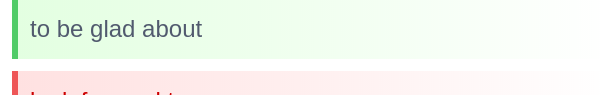
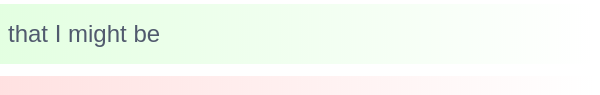
SQL babyyyyyyyyyyyyyyyyyyyy
stupid ass dictionaries

diff --git a/main.py b/main.py
@@ -2,41 +2,101 @@ from googletrans import Translator
 import pytesseract
 import pyautogui
 import time
+import clipboard
 
+from flask import Flask
+from flask_sqlalchemy import SQLAlchemy
+import sqlalchemy
+from sqlalchemy import Column, Integer, String, ForeignKey
+from sqlalchemy.ext.declarative import declarative_base
+from sqlalchemy.orm import sessionmaker
 #pytesseract.pytesseract.tesseract_cmd = r'C:\Program Files\Tesseract-OCR\tesseract.exe'
 translator = Translator()
 newtext = ''
 oldtext = ''
 checktext = ''
-dictionary = {}
+
+app = Flask(__name__)
+app.config['SECRET_KEY'] = 'zbnjlbrkns'
+app.config['SQLALCHEMY_DATABASE_URI'] = 'sqlite:///db.sqlite3'
+app.config['SQLALCHEMY_TRACK_MODIFICATIONS'] = False
+db = SQLAlchemy(app)
+engine = sqlalchemy.create_engine('sqlite:///db.sqlite3',connect_args={'check_same_thread': False})
+session = sessionmaker(bind=engine)()
+base = declarative_base()
+
+class Words(db.Model):
+    id = id = db.Column(db.Integer, primary_key=True)
+    german = db.Column(db.String(999), unique=True, nullable=False)
+    english = db.Column(db.String(999), nullable=False)
+
 check = False
-time.sleep(4)
-while True:
-    time.sleep(1.5)
-    image = pyautogui.screenshot(region=(12, 398, 1382, 140))#region=(748,752, 1800, 200)
-    image.save("epic.png")
-    oldtext= newtext
-    newtext = pytesseract.image_to_string(image)
-    if newtext[:11:] == 'Your answer':
-        if check == True:
+verticalline = False
+
+if __name__ == '__main__':
+    time.sleep(4)
+    while True:
+        time.sleep(1.5)
+        image = pyautogui.screenshot(region=(12, 398, 1382, 140))#region=(748,752, 1800, 200)
+        image.save("epic.png")
+        oldtext= newtext
+        newtext = pytesseract.image_to_string(image)
+        if newtext.find('Your answer') != -1:
+            # if check == True:
+            #     try:
+            #         remove = Words.query.filter_by(german=checktext).first()
+            #         db.session.delete(remove)
+            #         db.session.commit
+            #         check = False
+            #     except:
+            #         check = False
+
+            #image = pyautogui.screenshot(region=(477, 354, 600, 95))#region=(1024,696, 928, 75)
+            #image.save("epic1.png")
+            pyautogui.click(button='left', clicks=3, interval=0.25, x=477, y=369)
+            pyautogui.hotkey('ctrl', 'c')
+            answer = clipboard.paste()
+            if verticalline:
+                while verticalline:
+                    if answer.find(' | ') != -1:
+                        position = answer.find(' | ')
+                        answer = answer[:position:]
+                    else:
+                        break
+            else:
+                answer.replace('|', 'I')
+
+            find = Words.query.filter_by(german = oldtext).first()
+            if find is None:
+                answer = Words(german = oldtext, english = answer)
+                db.session.add(answer)
+            else:
+                find.english = answer
+            db.session.commit()
+        else:
             try:
-                dictionary.pop(checktext)
-                check == False
+                translated = Words.query.filter_by(german = newtext).first().english
+                # check = True
+                # checktext = newtext
             except:
-                pass
-        image = pyautogui.screenshot(region=(455, 359, 600, 95))#region=(1024,696, 928, 75)
-        image.save("epic1.png")
-        answer = pytesseract.image_to_string(image)
-        dictionary[oldtext] = answer
-    else:
-        try:
-            translated = dictionary[newtext]
-            check = True
-            checktext = newtext
-        except:
-            translated = str(translator.translate(newtext).text)
-        if translated == '':
-            translated = 'a'
-        pyautogui.hotkey('ctrl', 'a')
-        pyautogui.typewrite(translated)
-    pyautogui.press('enter')
+                pos = newtext.find('(')
+                translatext = newtext
+                if pos != -1:
+                    translatext = newtext[:pos:]
+                while verticalline:
+                    if translatext.find(' | ') != -1:
+                        position = translated.find(' | ')
+                        translatext = translatext[:position:]
+                    else:
+                        translatext.replace('|', 'I')
+                print("translatext: " + translatext)
+                translated = str(translator.translate(translatext).text)
+            if translated == '':
+                translated = 'it'
+            if translated == 'Vike':
+                translated = 'I like'
+            
+            pyautogui.hotkey('ctrl', 'a')
+            pyautogui.typewrite(translated)
+            print("translated: " + translated)
+        pyautogui.press('enter')

diff --git a/make.py b/make.py
@@ -1,0 +1,3 @@
+from main import db
+from flask import Flask
+db.create_all()
